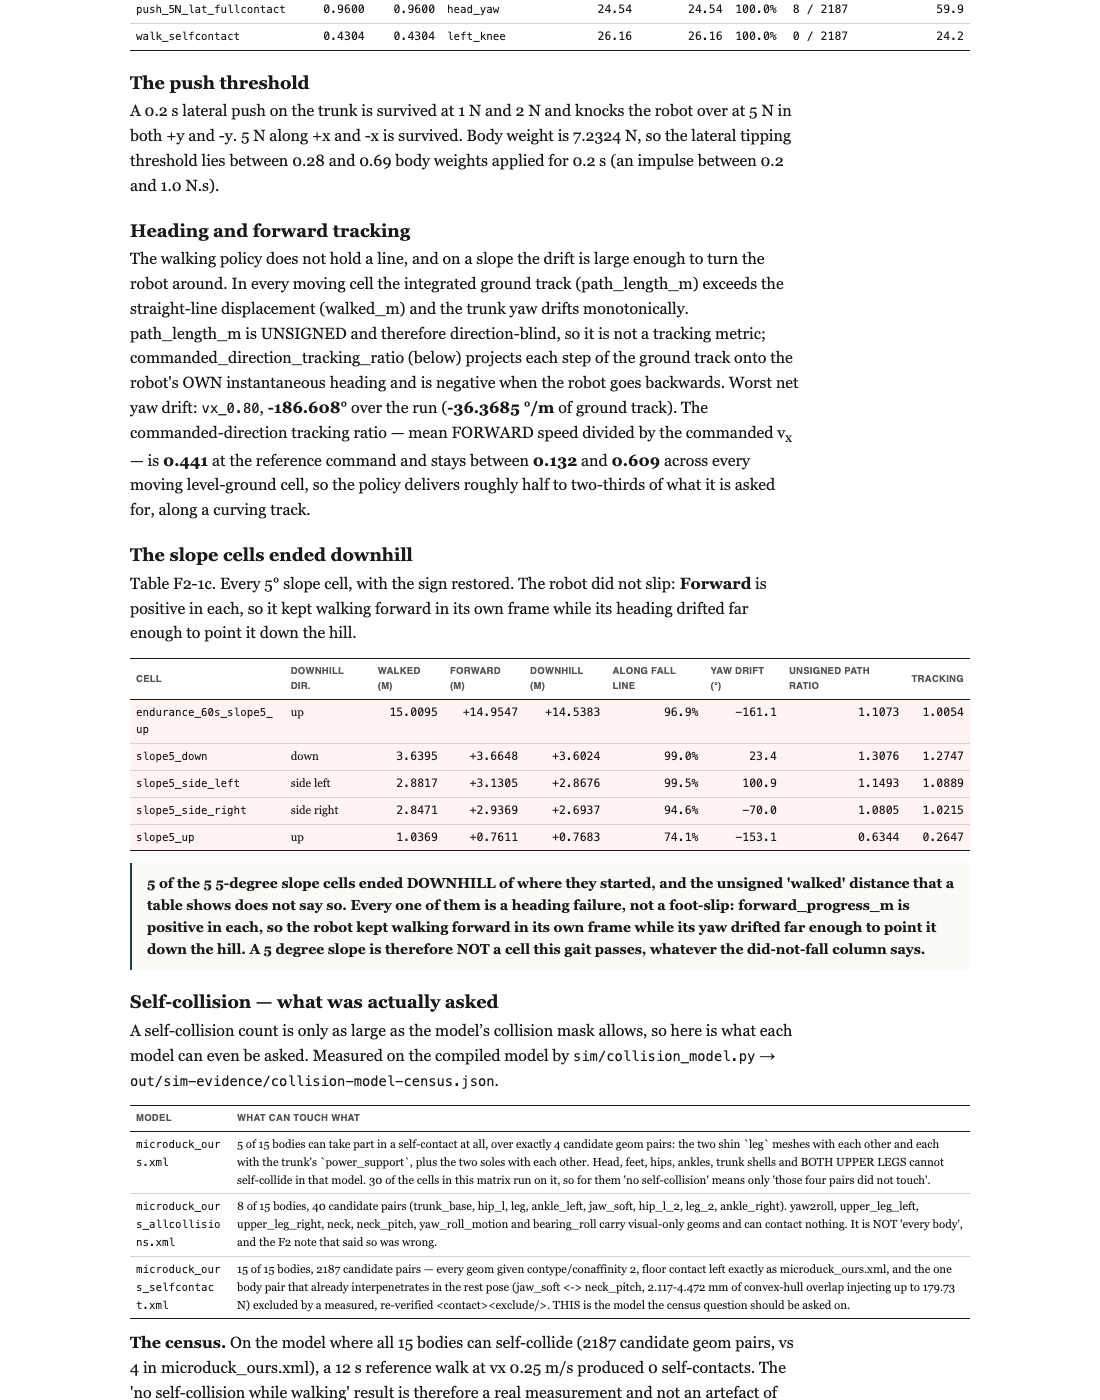
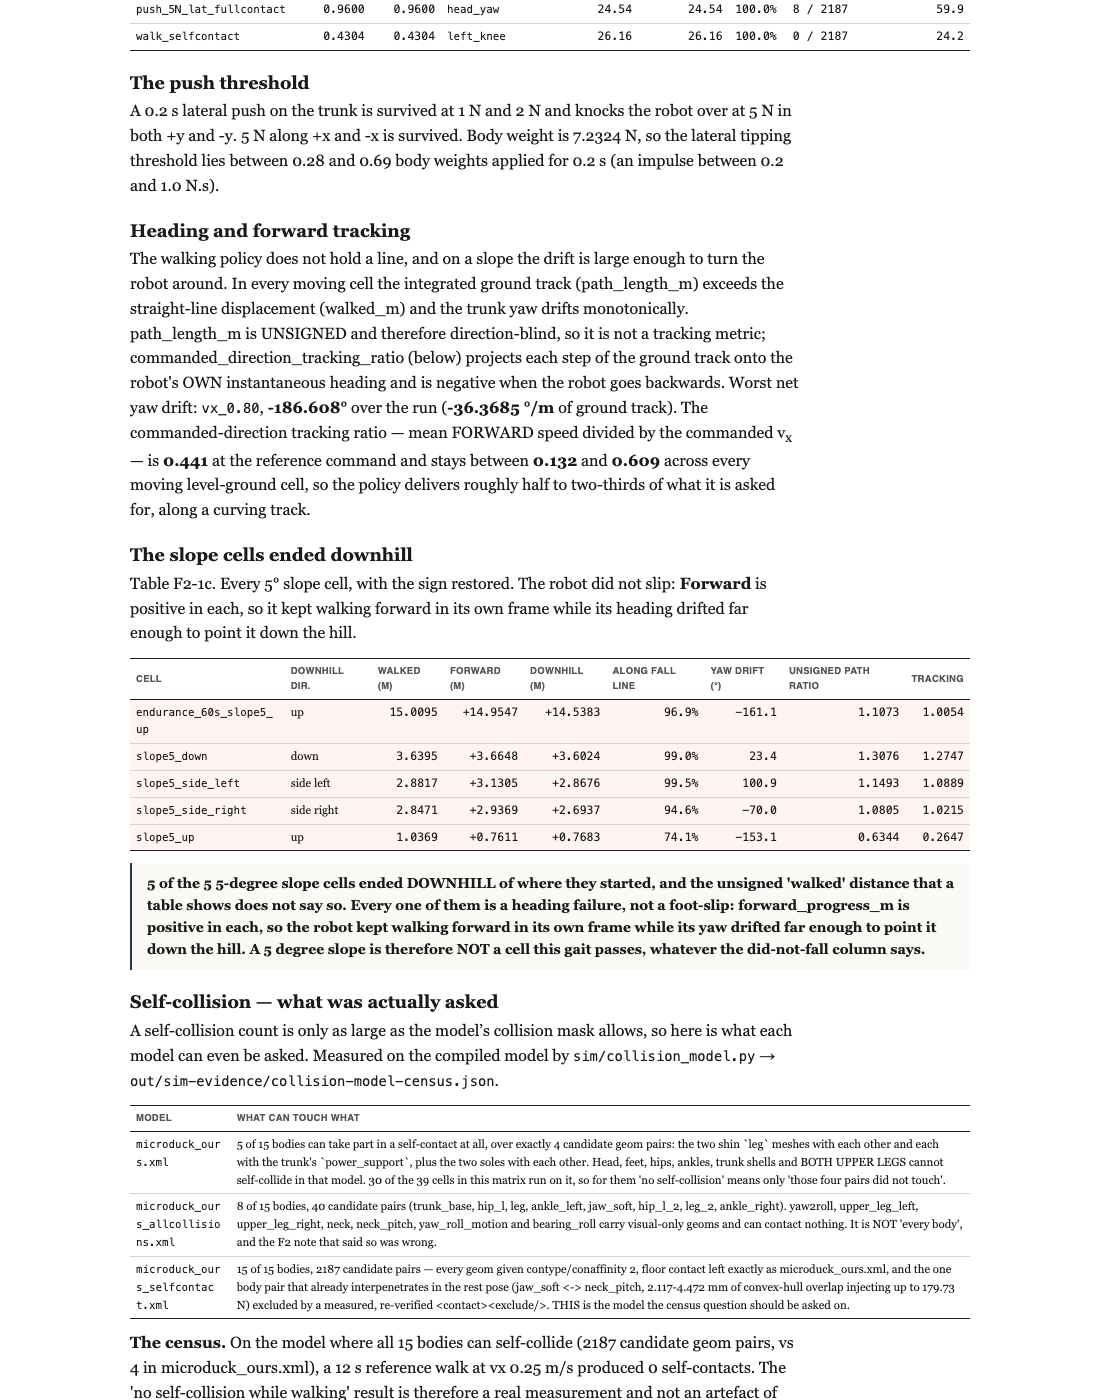
lane F2: derive the cell counts in the self-collision scope text instead of hardcoding 30, and re-read the page (all 8 tables measured at 840 px inside their 840 px column, 30 images, 0 broken)

Changed region(s): [[0.2164, 0.7986, 0.8655, 0.9521]]

diff --git a/out/sim-evidence/f2-preview.html b/out/sim-evidence/f2-preview.html
@@ -200,7 +200,7 @@
   so here is what each model can even be asked. Measured on the compiled model by
   <code>sim/collision_model.py</code> &rarr; <code>out/sim-evidence/collision-model-census.json</code>.</p>
   <div class="tablewrap"><table class="data compact">
-  <thead><tr><th>Model</th><th>What can touch what</th></tr></thead><tbody><tr><td><code>microduck_ours.xml</code></td><td>5 of 15 bodies can take part in a self-contact at all, over exactly 4 candidate geom pairs: the two shin `leg` meshes with each other and each with the trunk&#x27;s `power_support`, plus the two soles with each other. Head, feet, hips, ankles, trunk shells and BOTH UPPER LEGS cannot self-collide in that model. 30 of the cells in this matrix run on it, so for them &#x27;no self-collision&#x27; means only &#x27;those four pairs did not touch&#x27;.</td></tr><tr><td><code>microduck_ours_allcollisions.xml</code></td><td>8 of 15 bodies, 40 candidate pairs (trunk_base, hip_l, leg, ankle_left, jaw_soft, hip_l_2, leg_2, ankle_right). yaw2roll, upper_leg_left, upper_leg_right, neck, neck_pitch, yaw_roll_motion and bearing_roll carry visual-only geoms and can contact nothing. It is NOT &#x27;every body&#x27;, and the F2 note that said so was wrong.</td></tr><tr><td><code>microduck_ours_selfcontact.xml</code></td><td>15 of 15 bodies, 2187 candidate pairs — every geom given contype/conaffinity 2, floor contact left exactly as microduck_ours.xml, and the one body pair that already interpenetrates in the rest pose (jaw_soft &lt;-&gt; neck_pitch, 2.117-4.472 mm of convex-hull overlap injecting up to 179.73 N) excluded by a measured, re-verified &lt;contact&gt;&lt;exclude/&gt;. THIS is the model the census question should be asked on.</td></tr></tbody></table></div>
+  <thead><tr><th>Model</th><th>What can touch what</th></tr></thead><tbody><tr><td><code>microduck_ours.xml</code></td><td>5 of 15 bodies can take part in a self-contact at all, over exactly 4 candidate geom pairs: the two shin `leg` meshes with each other and each with the trunk&#x27;s `power_support`, plus the two soles with each other. Head, feet, hips, ankles, trunk shells and BOTH UPPER LEGS cannot self-collide in that model. 30 of the 39 cells in this matrix run on it, so for them &#x27;no self-collision&#x27; means only &#x27;those four pairs did not touch&#x27;.</td></tr><tr><td><code>microduck_ours_allcollisions.xml</code></td><td>8 of 15 bodies, 40 candidate pairs (trunk_base, hip_l, leg, ankle_left, jaw_soft, hip_l_2, leg_2, ankle_right). yaw2roll, upper_leg_left, upper_leg_right, neck, neck_pitch, yaw_roll_motion and bearing_roll carry visual-only geoms and can contact nothing. It is NOT &#x27;every body&#x27;, and the F2 note that said so was wrong.</td></tr><tr><td><code>microduck_ours_selfcontact.xml</code></td><td>15 of 15 bodies, 2187 candidate pairs — every geom given contype/conaffinity 2, floor contact left exactly as microduck_ours.xml, and the one body pair that already interpenetrates in the rest pose (jaw_soft &lt;-&gt; neck_pitch, 2.117-4.472 mm of convex-hull overlap injecting up to 179.73 N) excluded by a measured, re-verified &lt;contact&gt;&lt;exclude/&gt;. THIS is the model the census question should be asked on.</td></tr></tbody></table></div>
   <p><b>The census.</b> On the model where all 15 bodies can self-collide (2187 candidate geom pairs, vs 4 in microduck_ours.xml), a 12 s reference walk at vx 0.25 m/s produced 0 self-contacts. The &#x27;no self-collision while walking&#x27; result is therefore a real measurement and not an artefact of the collision mask. Cell <code>walk_selfcontact</code> on <code>sim/microduck_ours_selfcontact.xml</code>: 2187 candidate geom pairs,
   <b>0</b> self-contacts. Validation that this is the same robot: walked_m 1.22324 vs 1.22324 and peak torque 0.43045 vs 0.43045 N.m against base_walk_vx0.25 — the census model is dynamically the SAME robot, which is what makes its zero meaningful. <span class="chip pass">PASS</span></p>
   <p class="note"><b>What this still cannot see.</b> the one excluded body pair, jaw_soft &lt;-&gt; neck_pitch. Their convex hulls already interpenetrate by 2.117-4.472 mm in the STAND pose because MuJoCo collides the CONVEX HULL of a mesh and the neck-pitch bracket and its 22x16x4 bearing sit INSIDE the concave head shell — which is what the real assembly does. Whether the real parts clear each other is a CAD question, not a simulation one. WHAT SETTLES IT: a solid-solid boolean intersection of neck_pitch + bearing against bottom_head_shell + jaw in the STAND pose; a non-empty common() is an interference, an empty one confirms the hull artefact.</p>

diff --git a/out/sim-evidence/f2-sections.html b/out/sim-evidence/f2-sections.html
@@ -177,7 +177,7 @@
   so here is what each model can even be asked. Measured on the compiled model by
   <code>sim/collision_model.py</code> &rarr; <code>out/sim-evidence/collision-model-census.json</code>.</p>
   <div class="tablewrap"><table class="data compact">
-  <thead><tr><th>Model</th><th>What can touch what</th></tr></thead><tbody><tr><td><code>microduck_ours.xml</code></td><td>5 of 15 bodies can take part in a self-contact at all, over exactly 4 candidate geom pairs: the two shin `leg` meshes with each other and each with the trunk&#x27;s `power_support`, plus the two soles with each other. Head, feet, hips, ankles, trunk shells and BOTH UPPER LEGS cannot self-collide in that model. 30 of the cells in this matrix run on it, so for them &#x27;no self-collision&#x27; means only &#x27;those four pairs did not touch&#x27;.</td></tr><tr><td><code>microduck_ours_allcollisions.xml</code></td><td>8 of 15 bodies, 40 candidate pairs (trunk_base, hip_l, leg, ankle_left, jaw_soft, hip_l_2, leg_2, ankle_right). yaw2roll, upper_leg_left, upper_leg_right, neck, neck_pitch, yaw_roll_motion and bearing_roll carry visual-only geoms and can contact nothing. It is NOT &#x27;every body&#x27;, and the F2 note that said so was wrong.</td></tr><tr><td><code>microduck_ours_selfcontact.xml</code></td><td>15 of 15 bodies, 2187 candidate pairs — every geom given contype/conaffinity 2, floor contact left exactly as microduck_ours.xml, and the one body pair that already interpenetrates in the rest pose (jaw_soft &lt;-&gt; neck_pitch, 2.117-4.472 mm of convex-hull overlap injecting up to 179.73 N) excluded by a measured, re-verified &lt;contact&gt;&lt;exclude/&gt;. THIS is the model the census question should be asked on.</td></tr></tbody></table></div>
+  <thead><tr><th>Model</th><th>What can touch what</th></tr></thead><tbody><tr><td><code>microduck_ours.xml</code></td><td>5 of 15 bodies can take part in a self-contact at all, over exactly 4 candidate geom pairs: the two shin `leg` meshes with each other and each with the trunk&#x27;s `power_support`, plus the two soles with each other. Head, feet, hips, ankles, trunk shells and BOTH UPPER LEGS cannot self-collide in that model. 30 of the 39 cells in this matrix run on it, so for them &#x27;no self-collision&#x27; means only &#x27;those four pairs did not touch&#x27;.</td></tr><tr><td><code>microduck_ours_allcollisions.xml</code></td><td>8 of 15 bodies, 40 candidate pairs (trunk_base, hip_l, leg, ankle_left, jaw_soft, hip_l_2, leg_2, ankle_right). yaw2roll, upper_leg_left, upper_leg_right, neck, neck_pitch, yaw_roll_motion and bearing_roll carry visual-only geoms and can contact nothing. It is NOT &#x27;every body&#x27;, and the F2 note that said so was wrong.</td></tr><tr><td><code>microduck_ours_selfcontact.xml</code></td><td>15 of 15 bodies, 2187 candidate pairs — every geom given contype/conaffinity 2, floor contact left exactly as microduck_ours.xml, and the one body pair that already interpenetrates in the rest pose (jaw_soft &lt;-&gt; neck_pitch, 2.117-4.472 mm of convex-hull overlap injecting up to 179.73 N) excluded by a measured, re-verified &lt;contact&gt;&lt;exclude/&gt;. THIS is the model the census question should be asked on.</td></tr></tbody></table></div>
   <p><b>The census.</b> On the model where all 15 bodies can self-collide (2187 candidate geom pairs, vs 4 in microduck_ours.xml), a 12 s reference walk at vx 0.25 m/s produced 0 self-contacts. The &#x27;no self-collision while walking&#x27; result is therefore a real measurement and not an artefact of the collision mask. Cell <code>walk_selfcontact</code> on <code>sim/microduck_ours_selfcontact.xml</code>: 2187 candidate geom pairs,
   <b>0</b> self-contacts. Validation that this is the same robot: walked_m 1.22324 vs 1.22324 and peak torque 0.43045 vs 0.43045 N.m against base_walk_vx0.25 — the census model is dynamically the SAME robot, which is what makes its zero meaningful. <span class="chip pass">PASS</span></p>
   <p class="note"><b>What this still cannot see.</b> the one excluded body pair, jaw_soft &lt;-&gt; neck_pitch. Their convex hulls already interpenetrate by 2.117-4.472 mm in the STAND pose because MuJoCo collides the CONVEX HULL of a mesh and the neck-pitch bracket and its 22x16x4 bearing sit INSIDE the concave head shell — which is what the real assembly does. Whether the real parts clear each other is a CAD question, not a simulation one. WHAT SETTLES IT: a solid-solid boolean intersection of neck_pitch + bearing against bottom_head_shell + jaw in the STAND pose; a non-empty common() is an interference, an empty one confirms the hull artefact.</p>

diff --git a/sim/gait_evidence.py b/sim/gait_evidence.py
@@ -644,9 +644,9 @@ def robustness(cells):
                                       "candidate geom pairs: the two shin `leg` meshes with each other and each "
                                       "with the trunk's `power_support`, plus the two soles with each other. "
                                       "Head, feet, hips, ankles, trunk shells and BOTH UPPER LEGS cannot "
-                                      "self-collide in that model. 30 of the cells in this matrix run on it, "
-                                      "so for them 'no self-collision' means only 'those four pairs did not "
-                                      "touch'.",
+                                      "self-collide in that model. %d of the %d cells in this matrix run on "
+                                      "it, so for them 'no self-collision' means only 'those four pairs did "
+                                      "not touch'." % (sum(1 for r in rows if r["robot"] == "ours"), len(rows)),
                 "microduck_ours_allcollisions.xml": "8 of 15 bodies, 40 candidate pairs (trunk_base, hip_l, "
                                                     "leg, ankle_left, jaw_soft, hip_l_2, leg_2, ankle_right). "
                                                     "yaw2roll, upper_leg_left, upper_leg_right, neck, "
@@ -702,9 +702,9 @@ def robustness(cells):
                "Under an external push %d joints are driven past their MJCF stop, worst %s by %.4f deg in cell "
                "%s — on the real robot that is a hard stop taking the load. "
                "SELF-COLLISION: %d cells report a self-contact (%s), but READ outputs.self_collision_scope "
-               "first — 30 of these cells run on sim/microduck_ours.xml, where only 4 geom pairs can touch at "
+               "first — %d of these cells run on sim/microduck_ours.xml, where only 4 geom pairs can touch at "
                "all. The question was re-asked on sim/microduck_ours_selfcontact.xml, where all 15 bodies can "
-               "self-collide over 2187 candidate pairs and which reproduces the reference walk to 5 dp: "
+               "self-collide over %d candidate pairs and which reproduces the reference walk to 5 dp: "
                "%d self-contacts in the 12 s reference walk. "
                "POSTURE: the sit-stand cells report fell=true by the trunk-height rule because the commanded "
                "sit puts the trunk on the floor on purpose; each row also carries "
@@ -715,6 +715,8 @@ def robustness(cells):
                   "" if not loco_beyond else " except " + ", ".join(loco_beyond),
                   len(beyond), worst_ovs["max_overshoot_joint"], worst_ovs["max_overshoot_beyond_limit_deg"],
                   worst_ovs["cell"], len(selfcol), ", ".join(selfcol) if selfcol else "none",
+                  sum(1 for r in rows if r["robot"] == "ours"),
+                  _census_statement(cells).get("candidate_geom_pairs", -1),
                   _census_statement(cells).get("self_contacts_max_per_frame", -1)),
         "known_limitations": KNOWN_LIMITATIONS,
         "script": "sim/gait_sweep.py + sim/gait_evidence.py + sim/collision_model.py",
